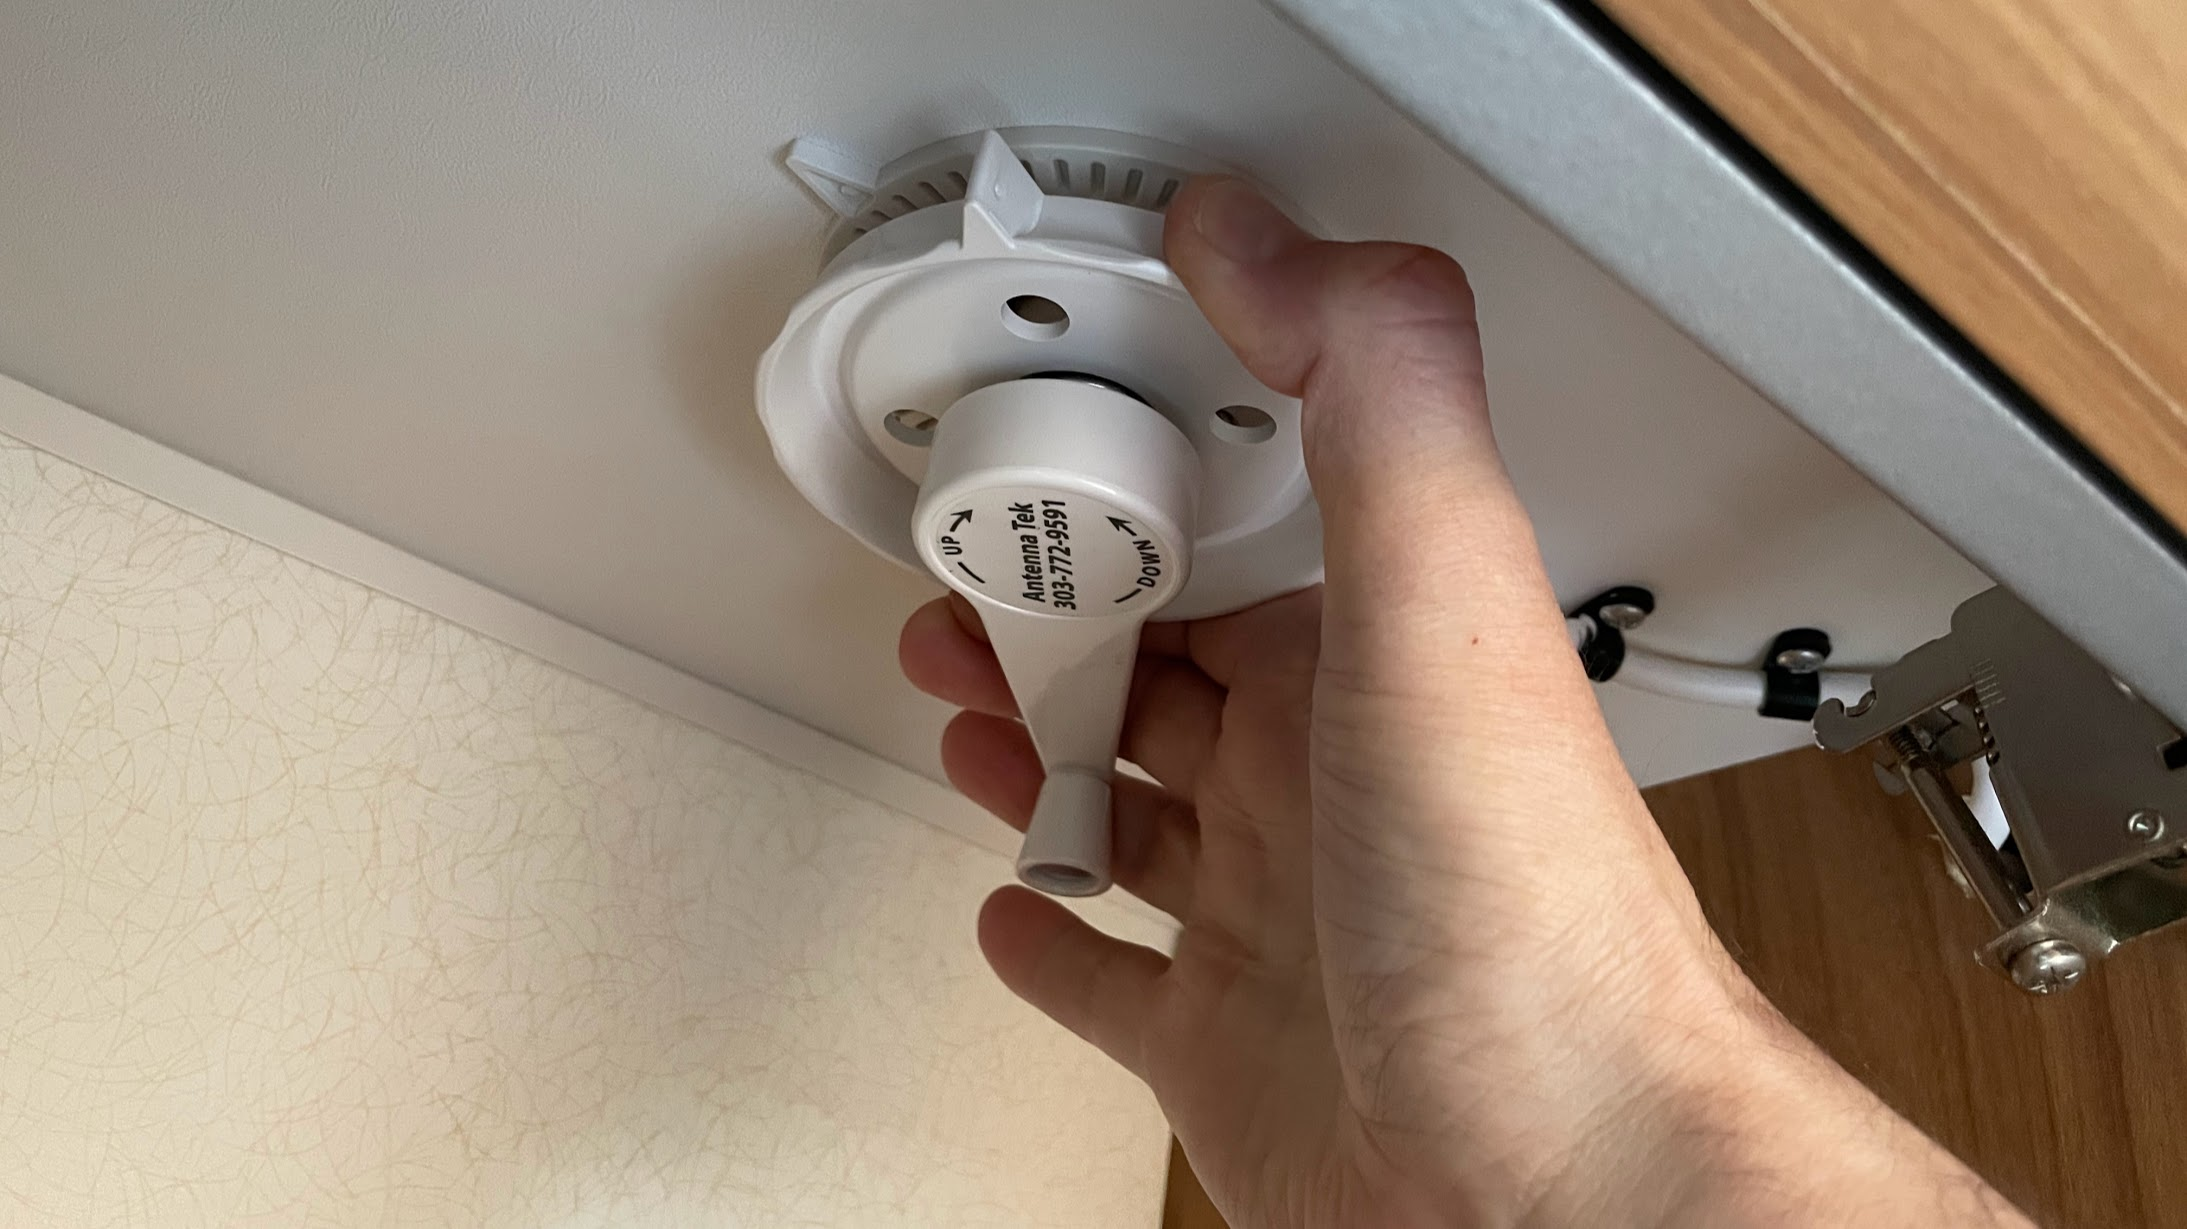
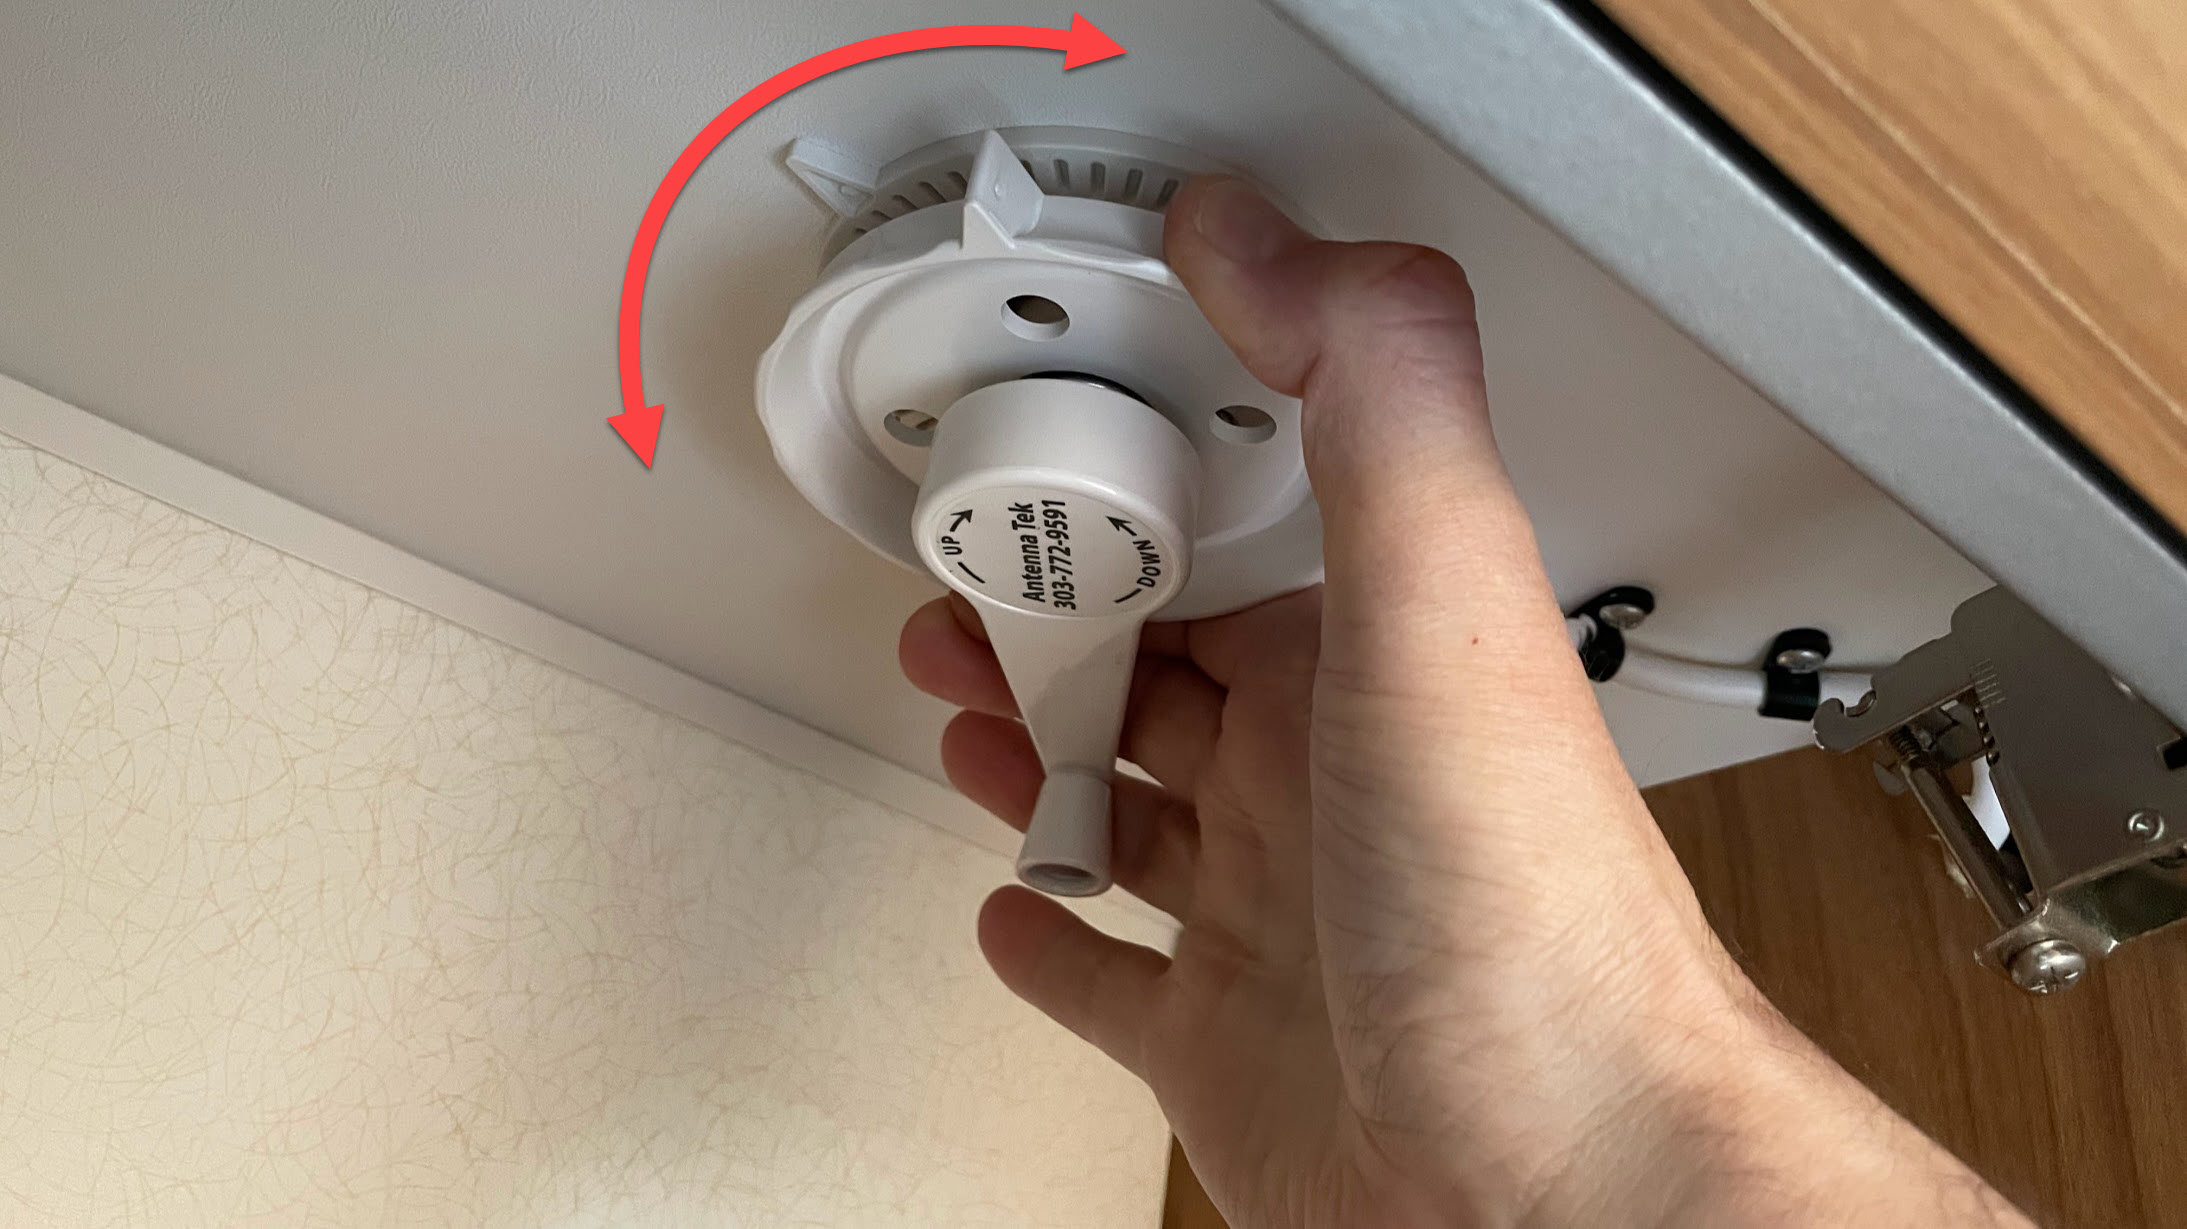
Minor adjustments

Changed region(s): [[0.2798, 0.0, 0.5286, 0.371]]

diff --git a/guides/antenna-and-tv.md b/guides/antenna-and-tv.md
@@ -28,7 +28,7 @@ The aerial power switch and antena elevation crank is located in the cupboard ov
 
 ![aerial-reception-booster](images/antenna-and-tv-aerial-reception-booster.jpg)
 
-3. Also ensure that a red light is visbale on the antenna.
+3. Also ensure that a red light is visable on the antenna.
 
 ![antenna-aerial-light](images/antenna-and-tv-antenna-aerial-light.jpg)
 
@@ -38,7 +38,9 @@ Windup the antenna using the elevating crank.
 ![remote](images/antenna-and-tv-antenna-elevating-crank.jpg)
 
 ### Directional Handle
-Position the antenna using the directional handle. Pull the ring down and turn to rotate the antenna.
+Position the antenna using the directional handle. 
+
+Pull the ring down and turn to rotate the antenna.
 
 <div class="alert alert-danger">
     <svg class="svg-inline--fa fa-triangle-exclamation fa-w-16" aria-hidden="true" focusable="false" data-prefix="fas" data-icon="triangle-exclamation" role="img" xmlns="http://www.w3.org/2000/svg" viewBox="0 0 512 512"><path fill="currentColor" d="M506.3 417l-213.3-364c-16.33-28-57.54-28-73.98 0l-213.2 364C-10.59 444.9 9.849 480 42.74 480h426.6C502.1 480 522.6 445 506.3 417zM232 168c0-13.25 10.75-24 24-24S280 154.8 280 168v128c0 13.25-10.75 24-23.1 24S232 309.3 232 296V168zM256 416c-17.36 0-31.44-14.08-31.44-31.44c0-17.36 14.07-31.44 31.44-31.44s31.44 14.08 31.44 31.44C287.4 401.9 273.4 416 256 416z"/></svg>  
